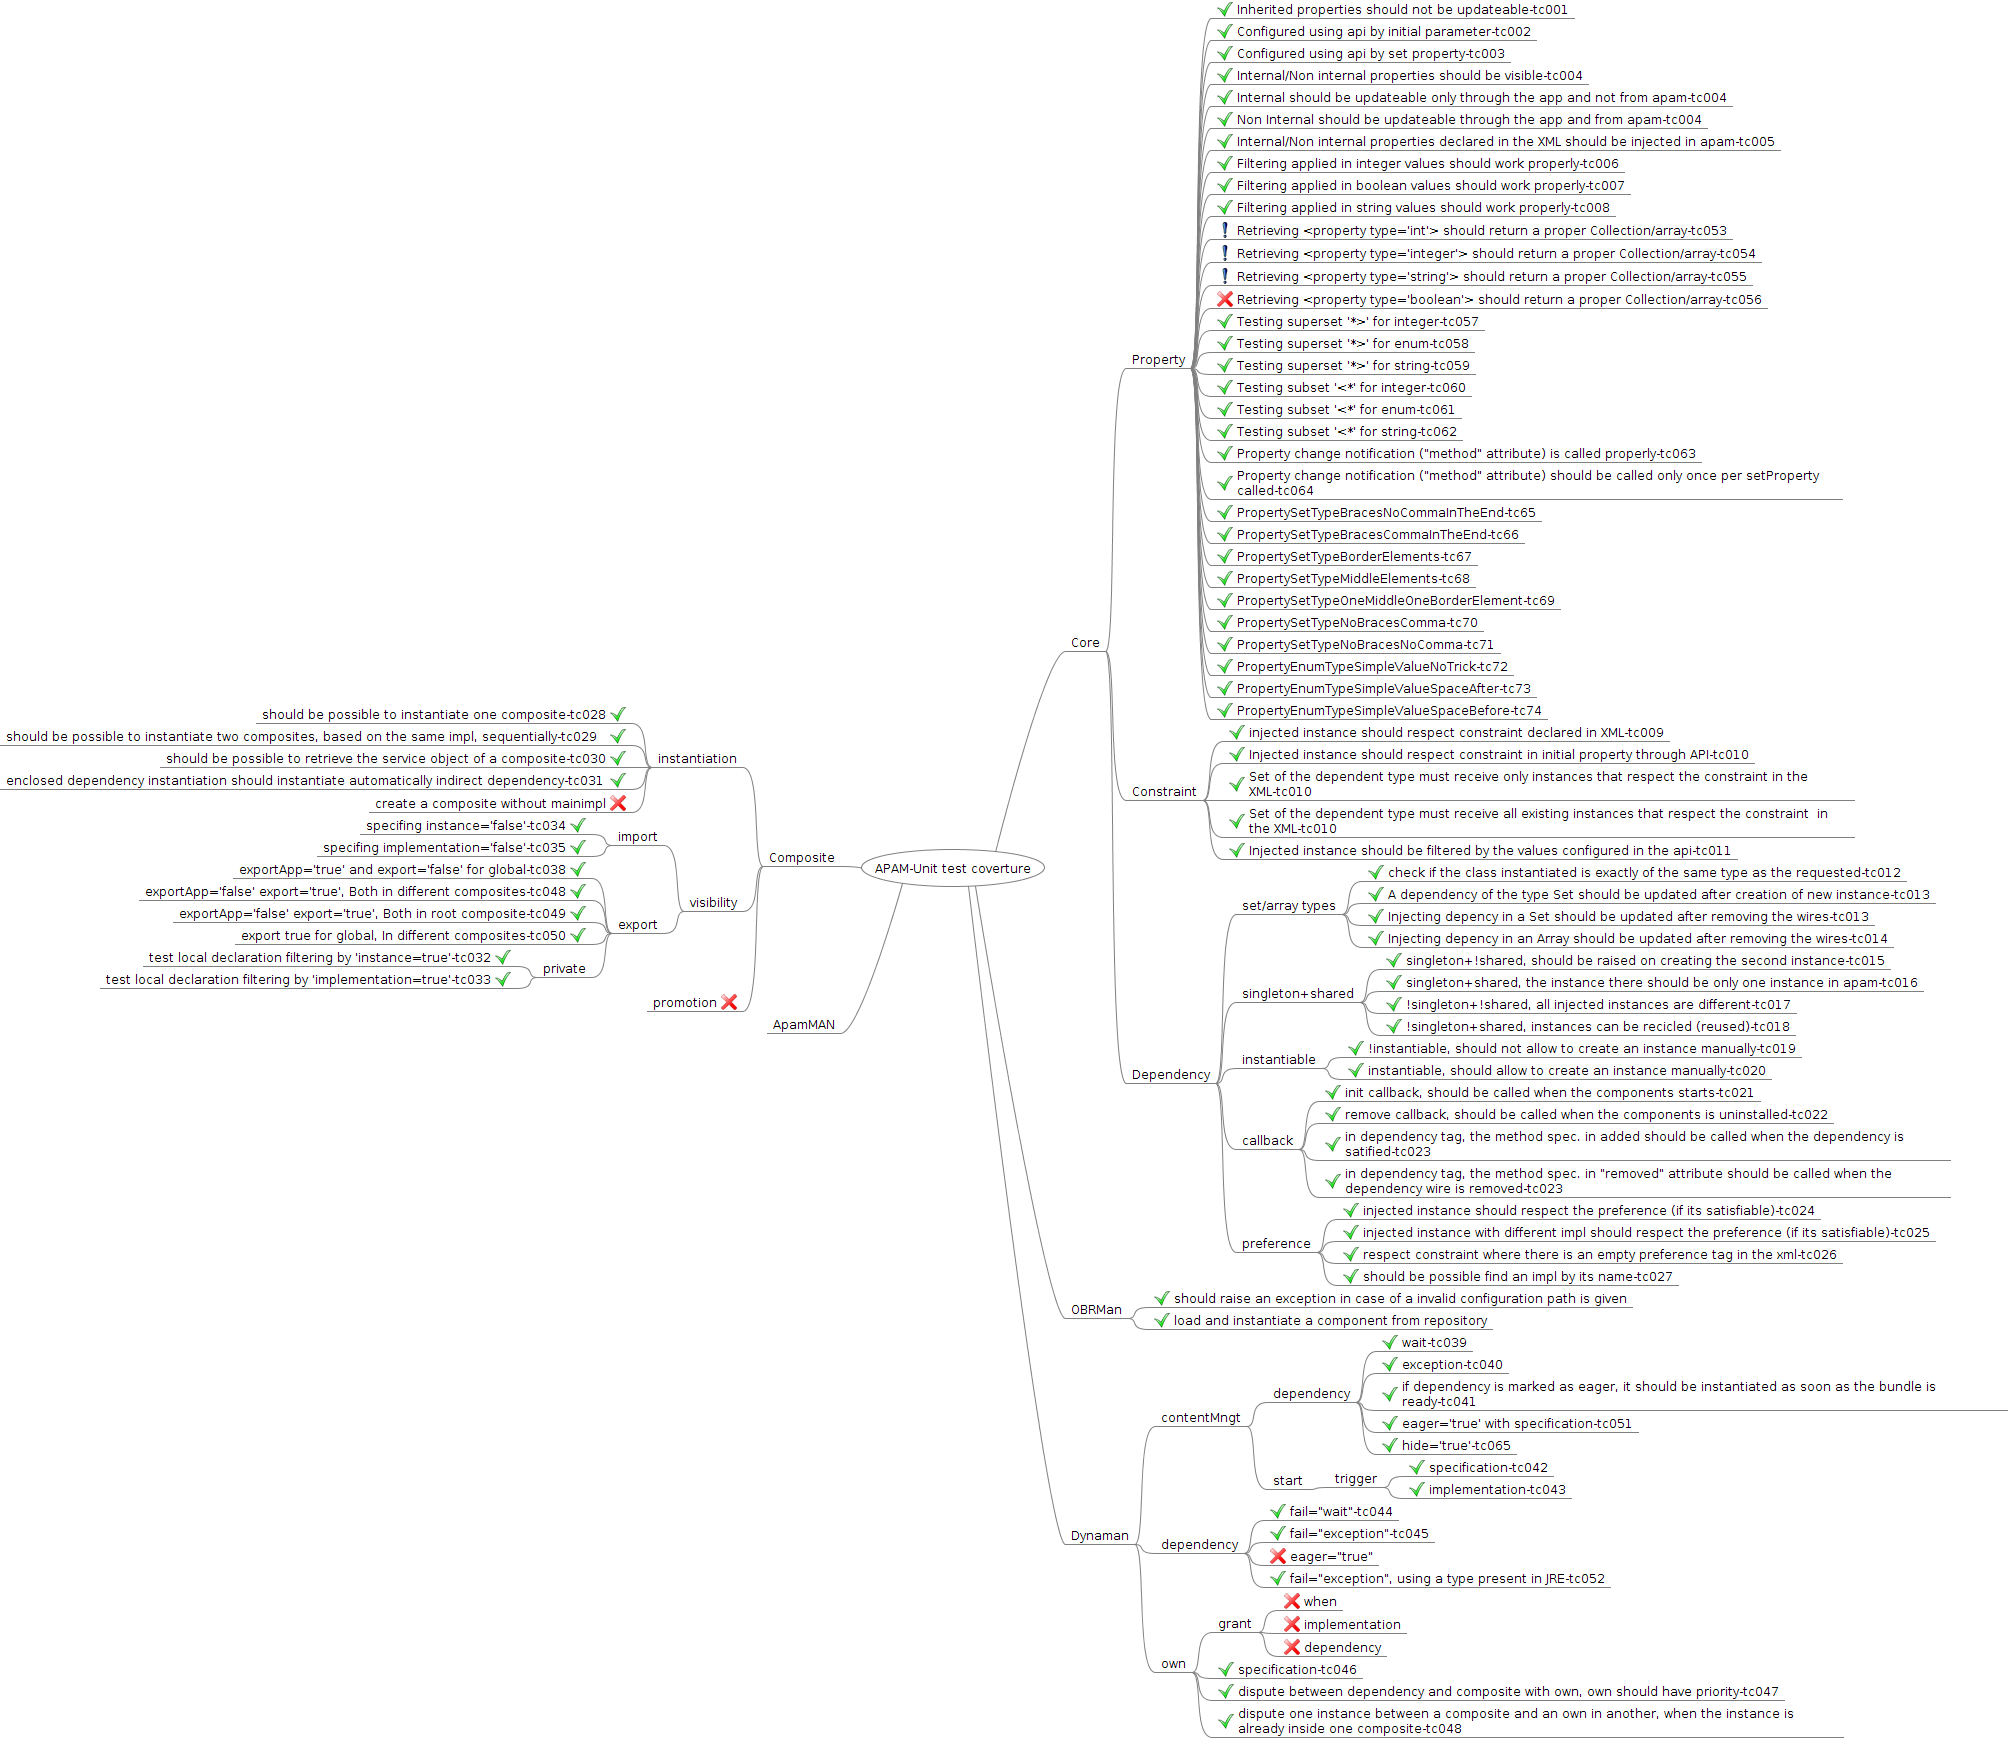
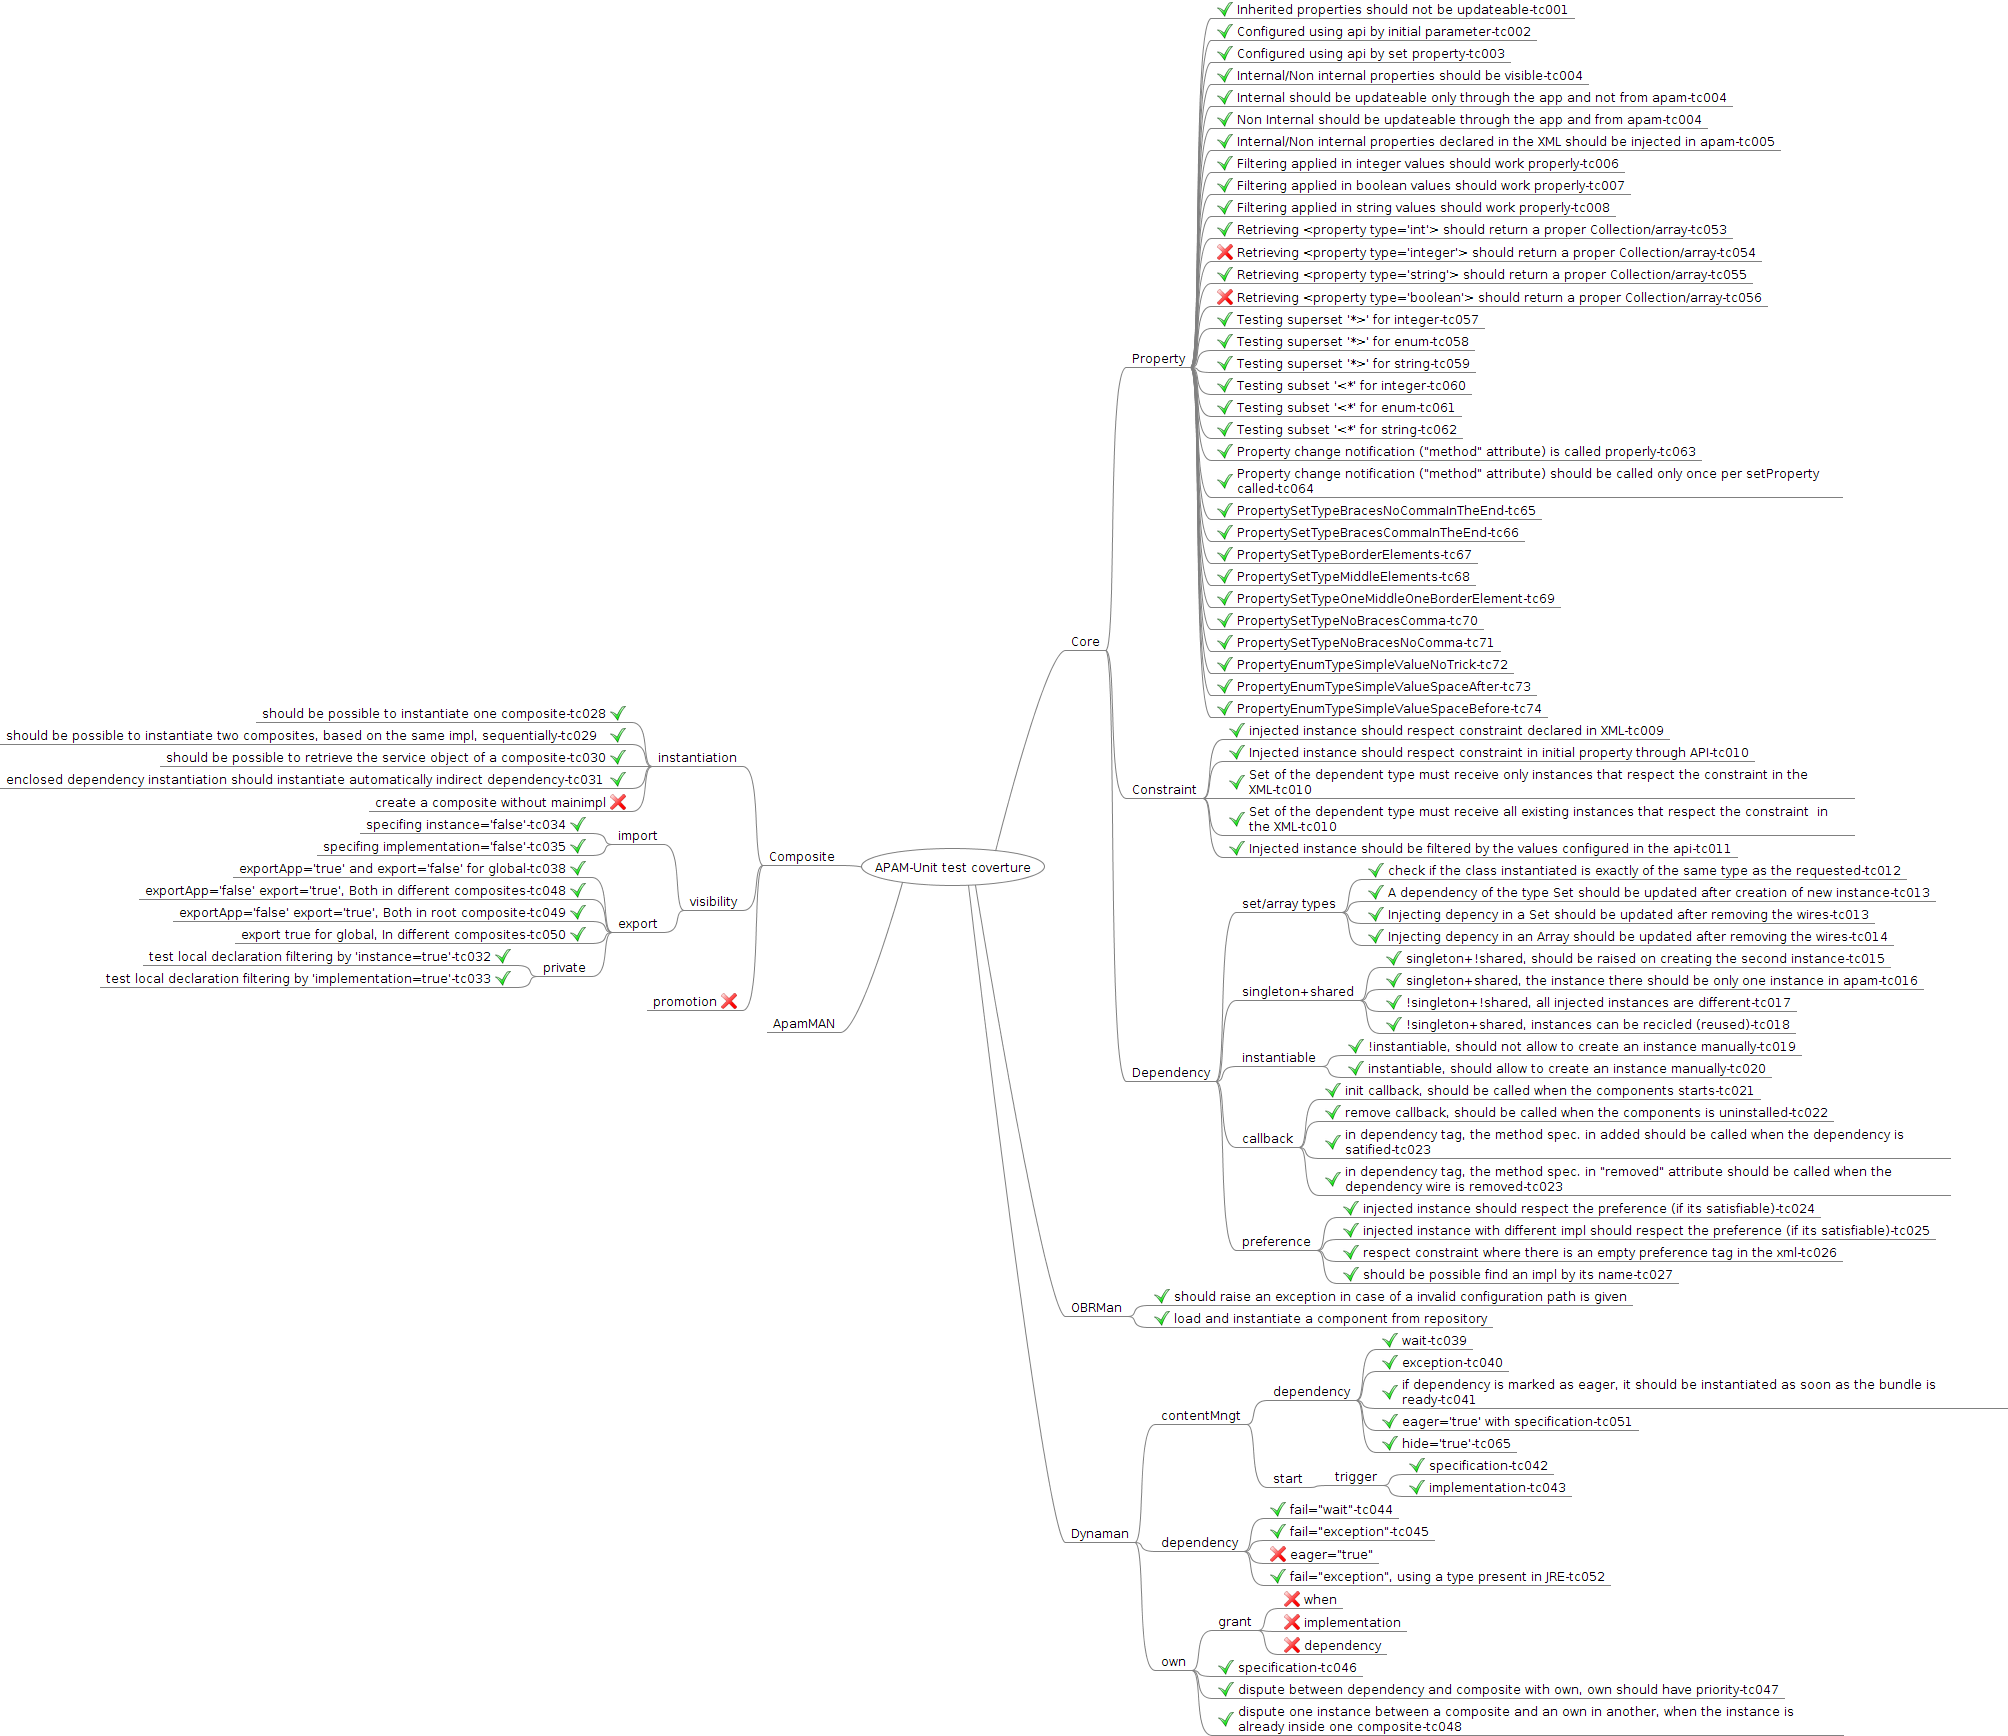
removing type 'integer' from tests, since it was removed from apam core, which made test tc054 to fail

Changed region(s): [[0.5249, 0.0622, 0.9572, 0.9021], [0.5867, 0.8088, 0.6175, 0.8399], [0.1544, 0.4044, 0.1853, 0.4355]]

diff --git a/documentations/technical/test-coverture/APAM-UnitTest-Coverture-OnFreeMindApp.mm b/documentations/technical/test-coverture/APAM-UnitTest-Coverture-OnFreeMindApp.mm
@@ -33,14 +33,14 @@
 <node CREATED="1353070377590" ID="ID_382562301" MODIFIED="1354294378716" TEXT="Filtering applied in string values should work properly-tc008">
 <icon BUILTIN="button_ok"/>
 </node>
-<node CREATED="1355931835542" ID="ID_1074078486" MODIFIED="1356684955115" TEXT="Retrieving &lt;property type=&apos;int&apos;&gt; should return a proper Collection/array-tc053">
-<icon BUILTIN="yes"/>
+<node CREATED="1355931835542" ID="ID_1074078486" MODIFIED="1360834822108" TEXT="Retrieving &lt;property type=&apos;int&apos;&gt; should return a proper Collection/array-tc053">
+<icon BUILTIN="button_cancel"/>
 </node>
-<node CREATED="1355931835542" ID="ID_949793962" MODIFIED="1356684955116" TEXT="Retrieving &lt;property type=&apos;integer&apos;&gt; should return a proper Collection/array-tc054">
-<icon BUILTIN="yes"/>
+<node CREATED="1355931835542" ID="ID_949793962" MODIFIED="1360834809332" TEXT="Retrieving &lt;property type=&apos;integer&apos;&gt; should return a proper Collection/array-tc054">
+<icon BUILTIN="button_ok"/>
 </node>
-<node CREATED="1355931835542" ID="ID_450621789" MODIFIED="1356684955117" TEXT="Retrieving &lt;property type=&apos;string&apos;&gt; should return a proper Collection/array-tc055">
-<icon BUILTIN="yes"/>
+<node CREATED="1355931835542" ID="ID_450621789" MODIFIED="1360834809332" TEXT="Retrieving &lt;property type=&apos;string&apos;&gt; should return a proper Collection/array-tc055">
+<icon BUILTIN="button_ok"/>
 </node>
 <node CREATED="1355931835542" ID="ID_1598888249" MODIFIED="1360339406812" TEXT="Retrieving &lt;property type=&apos;boolean&apos;&gt; should return a proper Collection/array-tc056">
 <icon BUILTIN="button_cancel"/>

diff --git a/tests/pax-test/src/test/java/fr/imag/adele/apam/test/testcases/PropertyTest.java b/tests/pax-test/src/test/java/fr/imag/adele/apam/test/testcases/PropertyTest.java
@@ -393,33 +393,6 @@ public class PropertyTest extends ExtensionAbstract {
 	}
 
 	@Test
-	public void PropertiesDataTypeListInteger_tc054() {
-
-		final String propertyName = "setInteger";
-
-		Implementation implementation = CST.apamResolver.findImplByName(null,
-				"SpecFilterSwitch");
-
-		Object RawType = implementation.getPropertyObject(propertyName);
-
-		String message = "Retrieving a set of (%s) from the properties, but the return do not correspond to a type that represents a set of elements(List,Set nor array).";
-
-		Assert.assertTrue(String.format(message, "Integer"),
-				RawType instanceof Integer[] || RawType instanceof Collection);
-
-		String messageCollection = "Retrieving a set of (%s) from the properties, the return correspond to a Collection type but not a Collection containing the type %s.";
-
-		if (RawType instanceof Collection) {
-			Object sample = ((Collection) RawType).iterator().next();
-			Class properType = Integer.class;
-			Assert.assertTrue(
-					String.format(messageCollection, propertyName, properType),
-					properType.isInstance(sample));
-		}
-
-	}
-
-	@Test
 	public void PropertiesDataTypeListString_tc055() {
 
 		final String propertyName = "setString";
